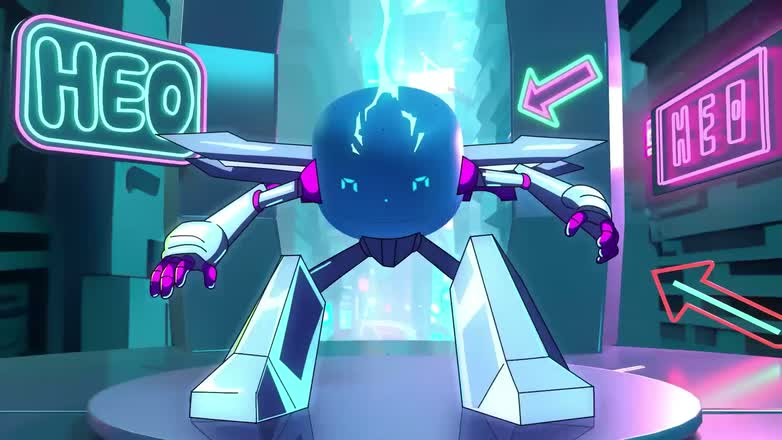
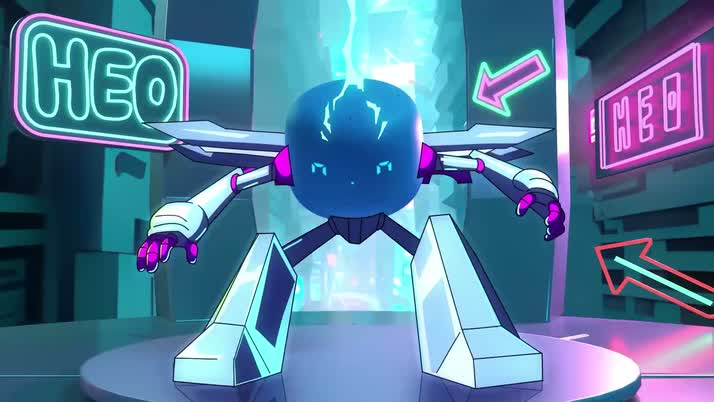
sber-terminal preveiw -> square

diff --git a/lib/projects.ts b/lib/projects.ts
@@ -213,7 +213,7 @@ export const projects: Project[] = [
 
   {
     slug: "vk-neo",
-    size: 6,
+    size: 5.5,
     thumb: {
       origin: "/projects/vk-neo/thumb/NEO_pw.webm",
       video: "/projects/vk-neo/thumb/NEO_pw-converted.webm",
@@ -264,12 +264,12 @@ export const projects: Project[] = [
 
   {
     slug: "sber-terminal",
-    size: 2,
+    size: 2.5,
     thumb: {
-      origin: "/projects/sber-terminal/thumb/SBER_terminal.webm",
-      video: "/projects/sber-terminal/thumb/SBER_terminal-converted.webm",
-      poster: "/projects/sber-terminal/thumb/SBER_terminal-poster.jpg",
-      videoSize: { width: 184, height: 368 },
+      origin: "/projects/sber-terminal/thumb/SBER_terminal_sq.webm",
+      video: "/projects/sber-terminal/thumb/SBER_terminal_sq-converted.webm",
+      poster: "/projects/sber-terminal/thumb/SBER_terminal_sq-poster.jpg",
+      videoSize: { width: 306, height: 306 },
     },
     title: "СБЕР / Оплата улыбкой",
     description: "Description",
@@ -569,7 +569,7 @@ export const projects: Project[] = [
 
   {
     slug: "rocs",
-    size: 2,
+    size: 2.5,
     thumb: {
       origin: "/projects/rocs/thumb/rocs.webm",
       video: "/projects/rocs/thumb/rocs-converted.webm",
@@ -668,7 +668,7 @@ export const projects: Project[] = [
 
   {
     slug: "zvuk",
-    size: 6,
+    size: 5.5,
     thumb: {
       origin: "/projects/zvuk/thumb/zvuk-thumb.webm",
       video: "/projects/zvuk/thumb/zvuk-thumb-converted.webm",

diff --git a/lib/script.ts b/lib/script.ts
@@ -2,6 +2,12 @@ import { projects } from "./projects";
 import { execSync } from "child_process";
 import { dirname, basename, join } from "path";
 
+// import { TAG } from "./tags";
+
+// const projects = [
+
+// ];
+
 const sizes: Record<string, { width: number; height: number }> = {};
 
 for (const project of projects) {